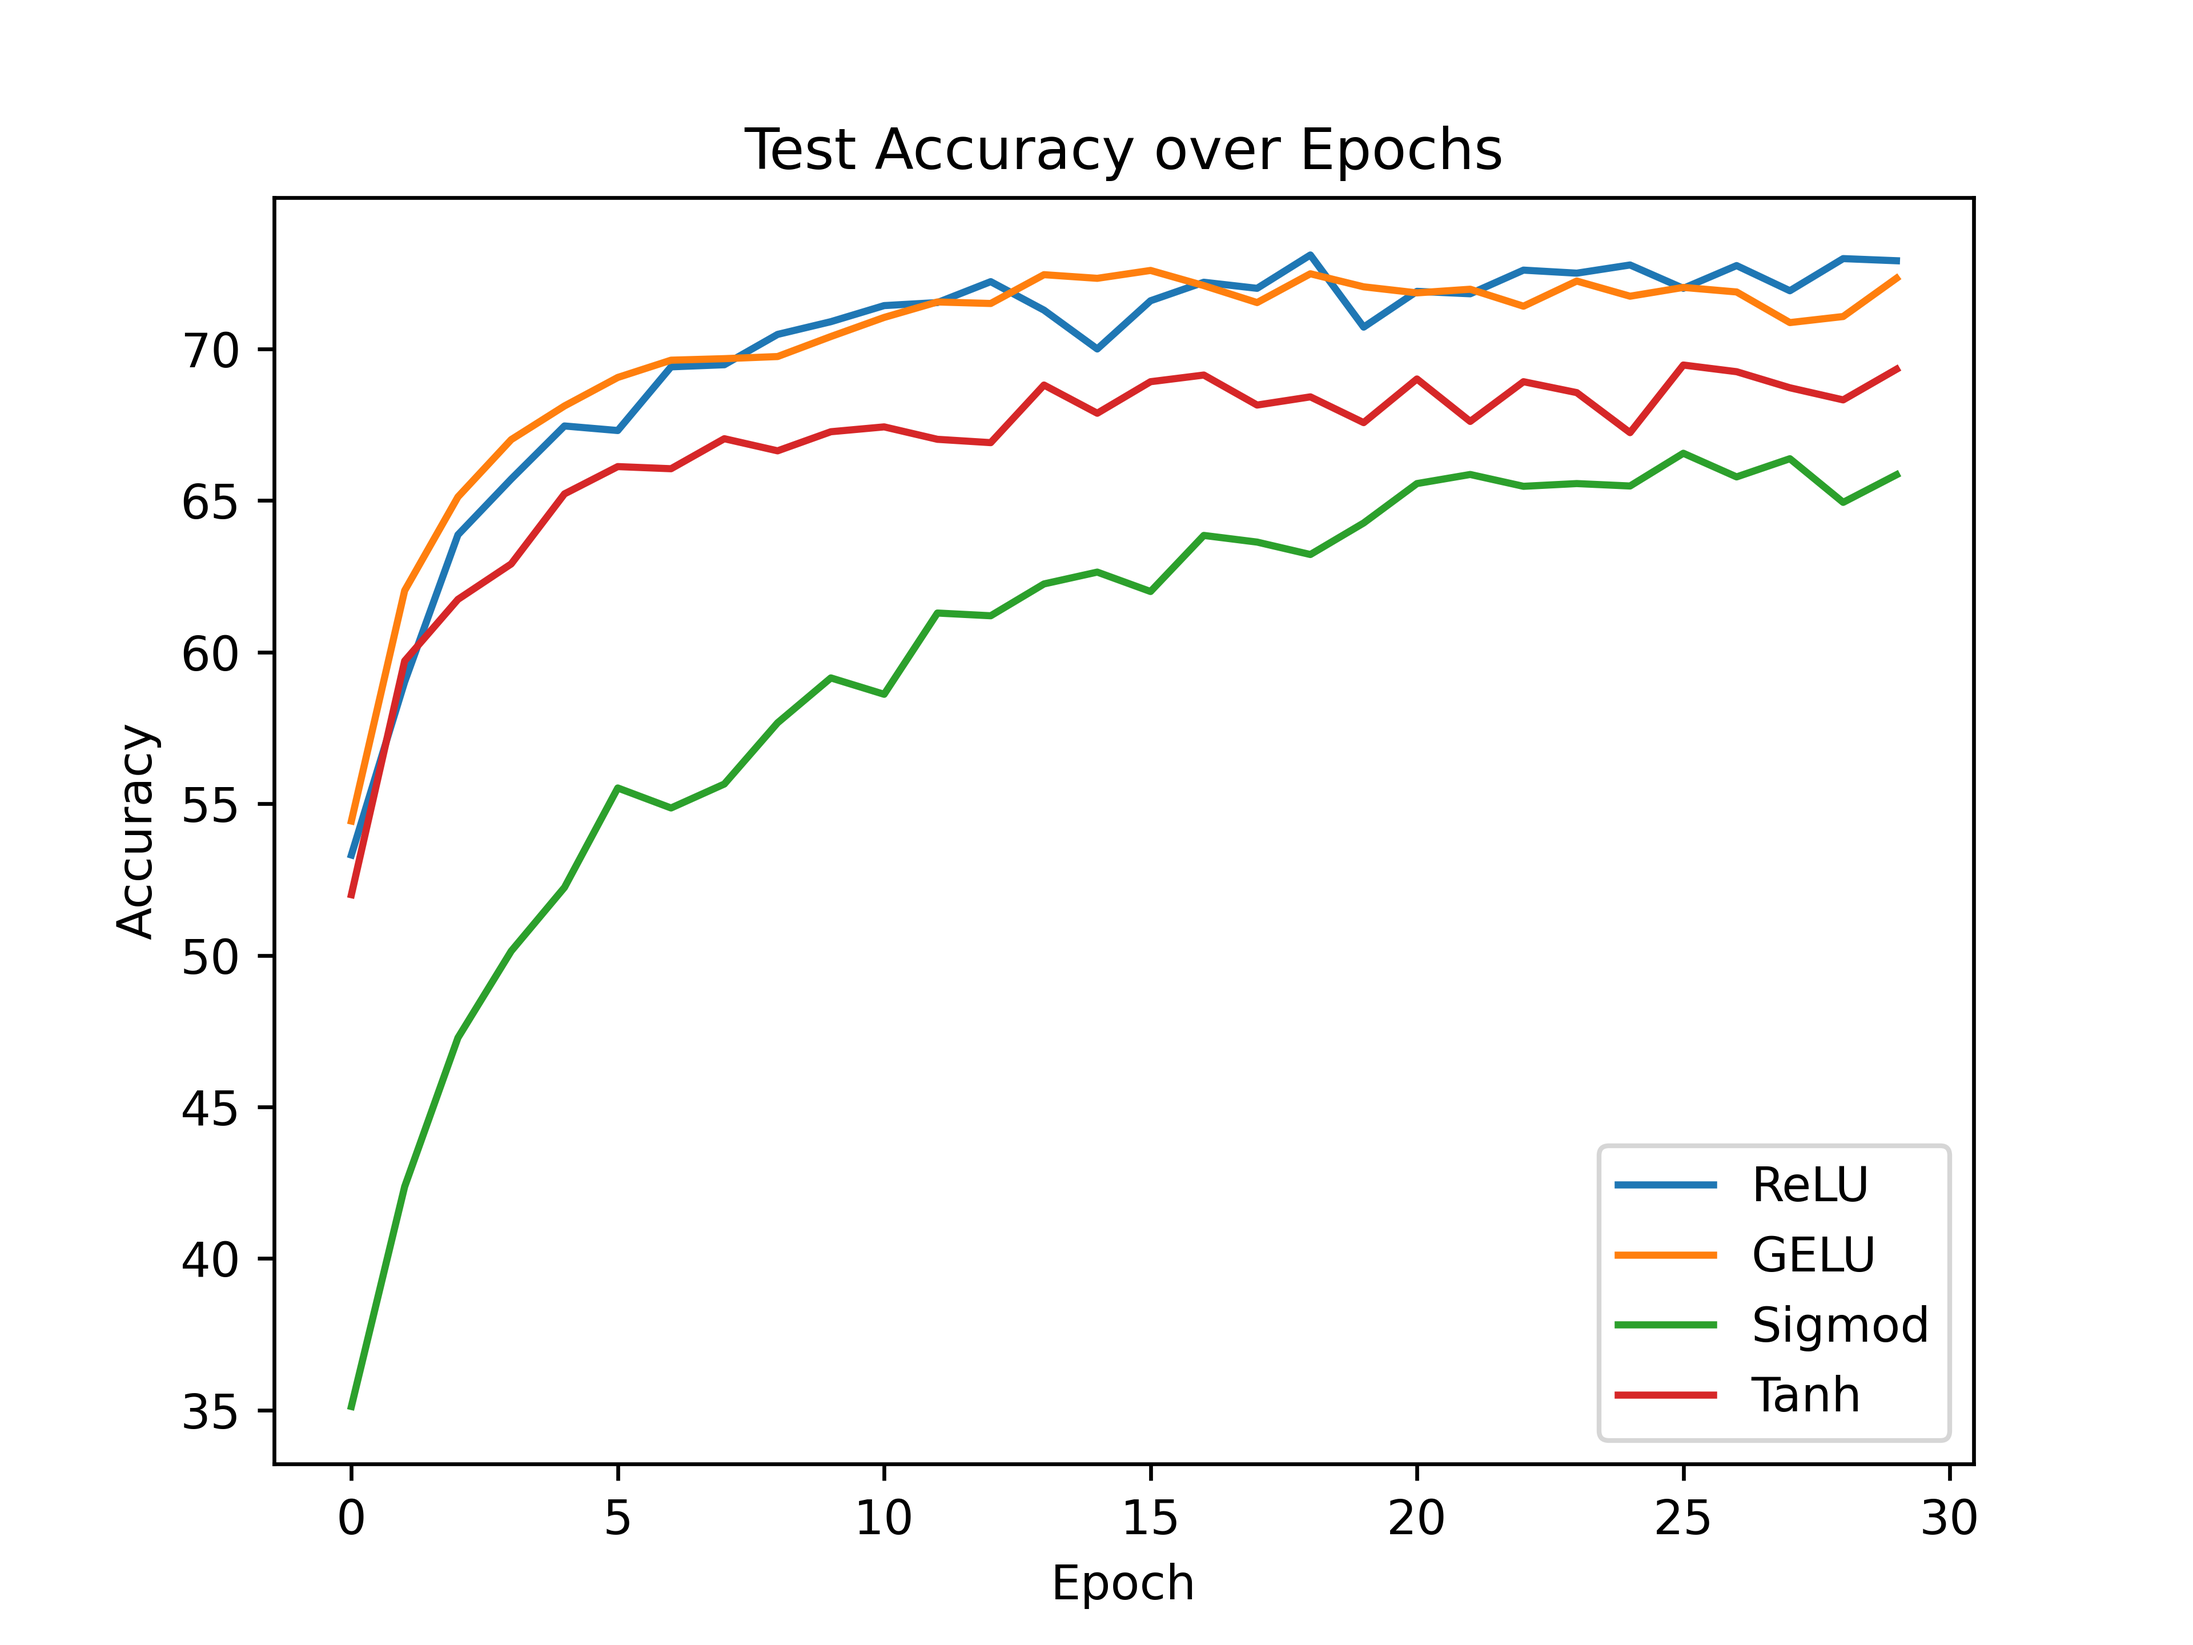
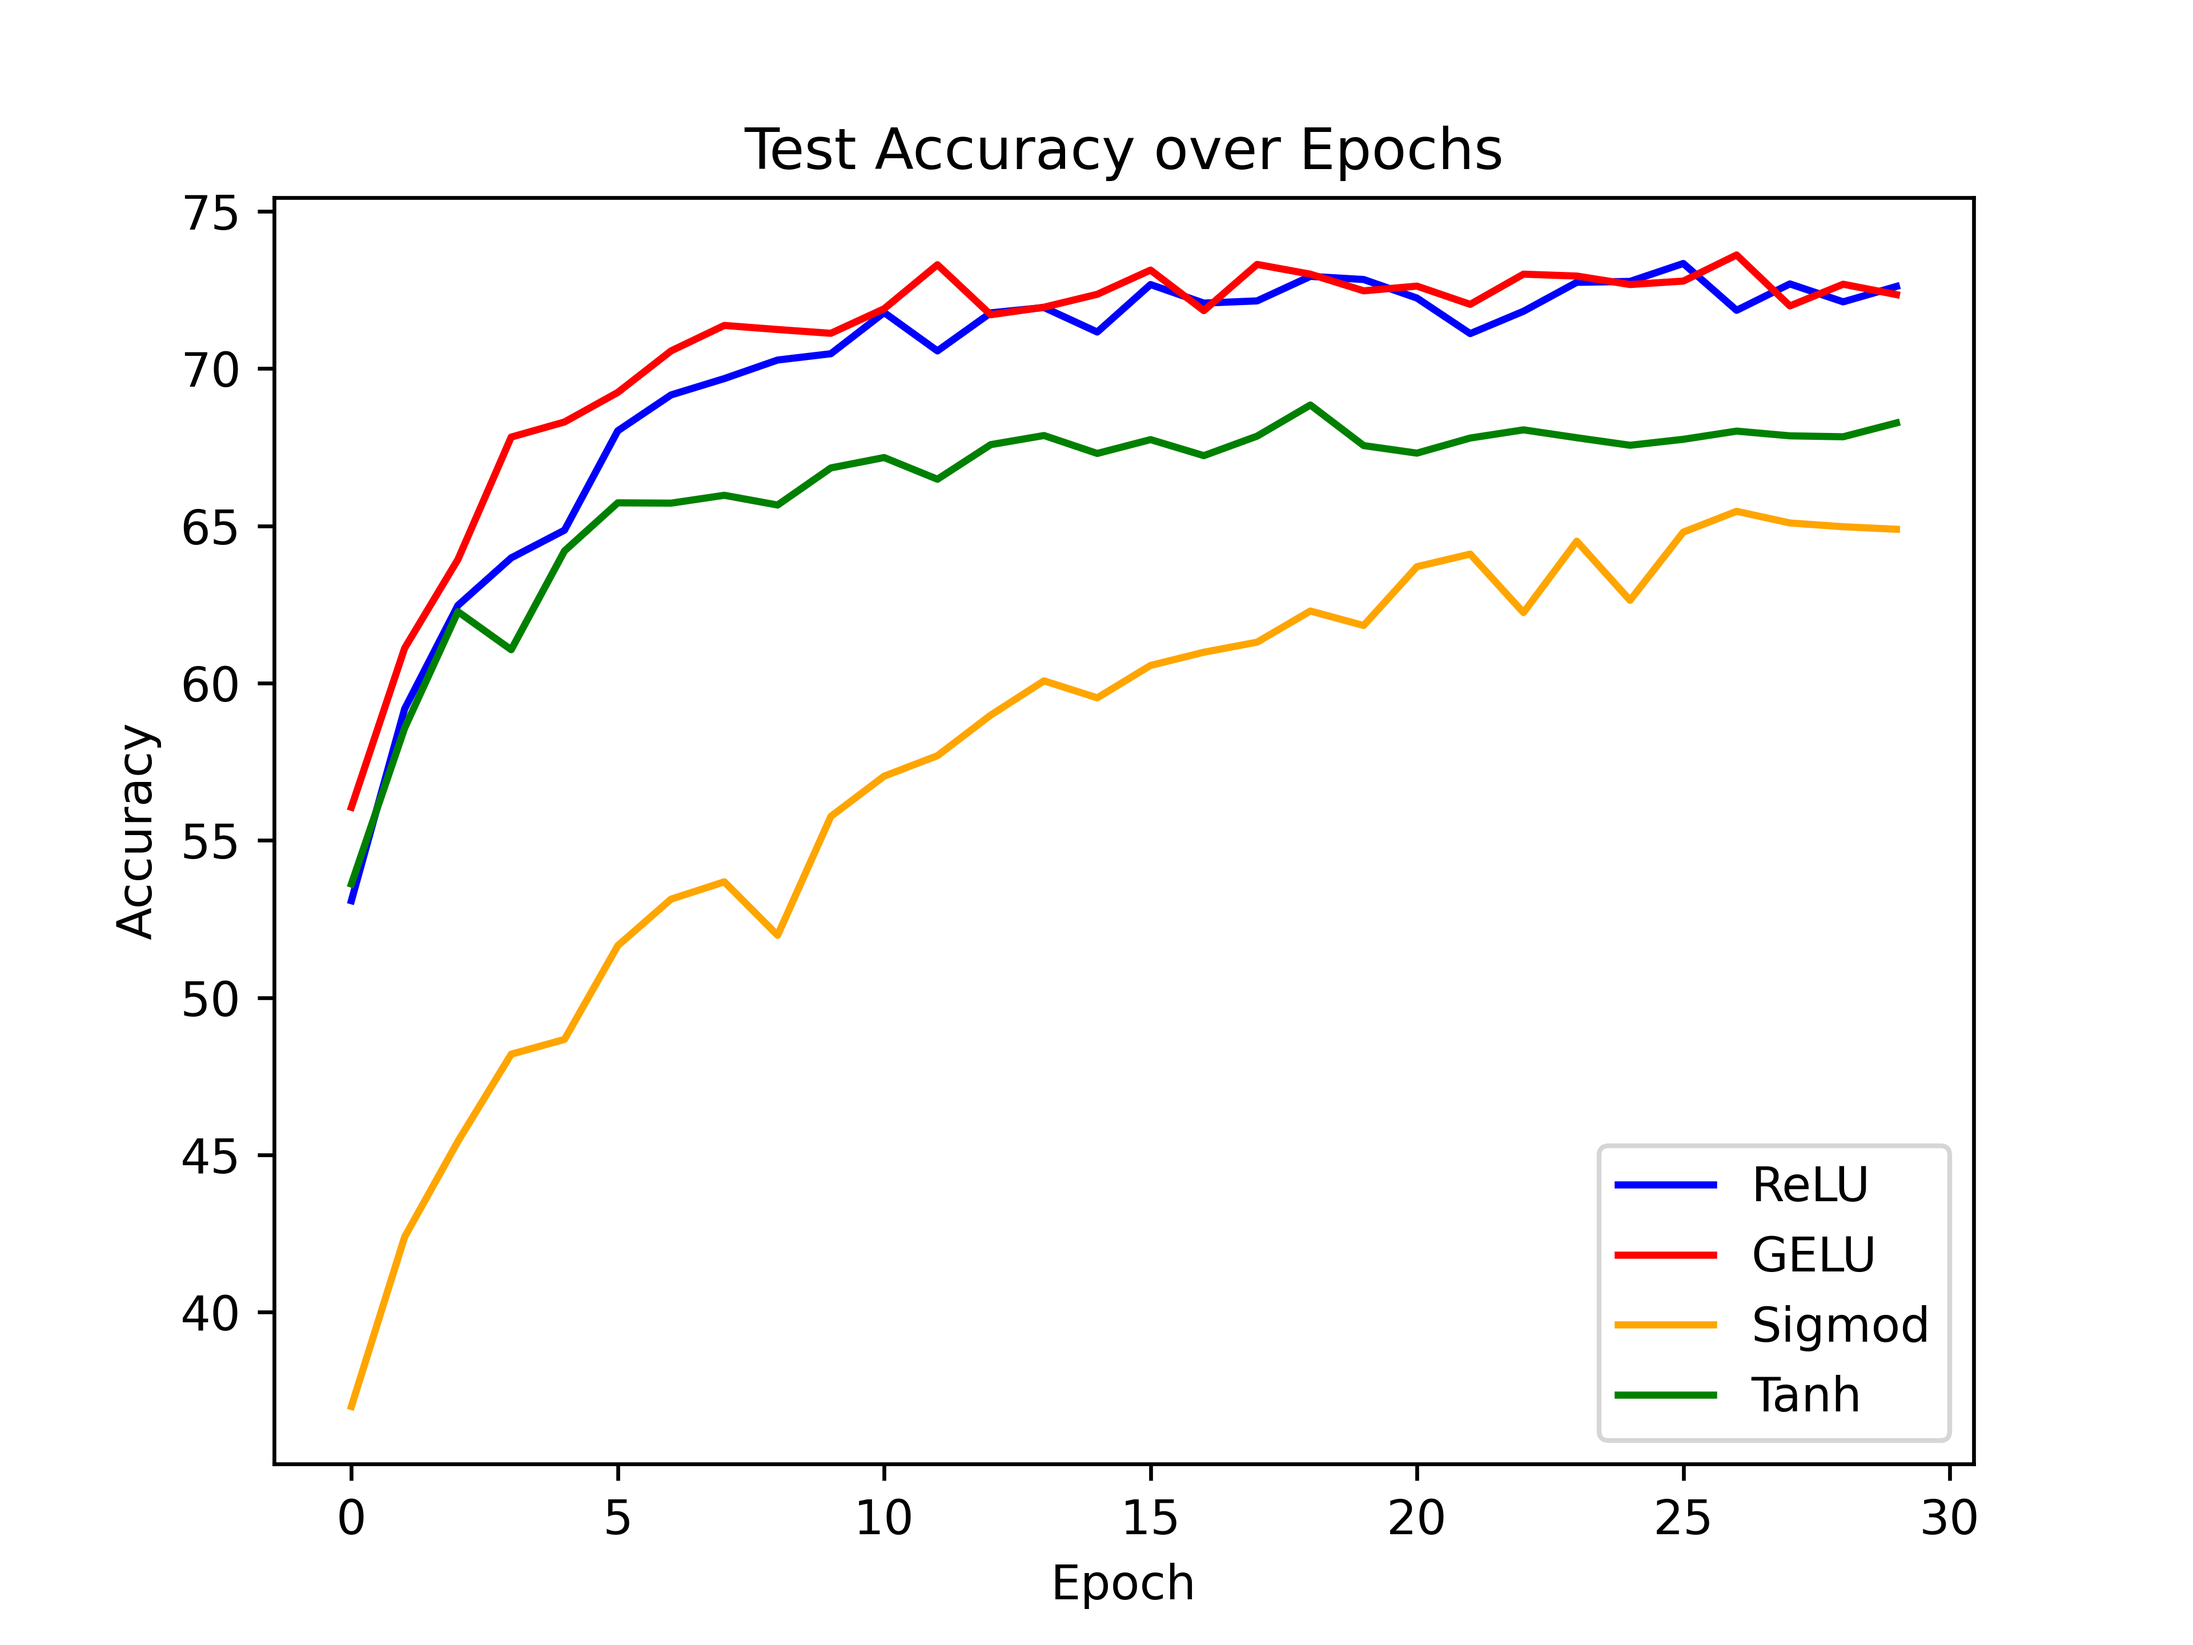
rerun

diff --git a/ConvNet.py b/ConvNet.py
@@ -141,13 +141,6 @@ class model(nn.Module):
         # fully connected 1
         self.fc1 = nn.Linear(120,84)
 
-        if self.normalization == 'bn':
-            self.norm4 = nn.BatchNorm1d(84)
-        elif self.normalization == 'ln':
-            self.norm4 = nn.LayerNorm(84)
-        elif self.normalization == 'gn':
-            self.norm4 = nn.GroupNorm(1, 84)
-
         # dropout
         if self.dropout:
             self.dropout = nn.Dropout(0.5)
@@ -193,11 +186,7 @@ class model(nn.Module):
         out = self.pool2(out)
         out = self.conv3(out)
         out = out.view(in_size,-1)
-        if self.normalization != 'none':
-            out = self.norm3(out)
         out = self.fc1(out)
-        if self.normalization != 'none':
-            out = self.norm4(out)
         out = self.activation_layer(out)
         if self.dropout:
             out = self.dropout(out)

diff --git a/PA1/test_kernel.py b/PA1/test_kernel.py
@@ -6,7 +6,7 @@ import matplotlib.pyplot as plt
 
 args = train.args
 train.total_epoch = 30
-args['dataset'] = 'cifar100'
+args['dataset'] = 'cifar10'
 
 # 经典 LeNet-5, kernel_size 为 5, kernel_num1 为 12, kernel_num2 为 32
 train.args = args

diff --git a/PA1/test_normalize.py b/PA1/test_normalize.py
@@ -6,7 +6,7 @@ import matplotlib.pyplot as plt
 
 args = train.args
 train.total_epoch = 30
-args['dataset'] = 'cifar100'
+args['dataset'] = 'cifar10'
 
 # 经典 LeNet-5，无归一化，batch_size = 64
 args['batch_size'] = 64

diff --git a/PA1/test_layers.py b/PA1/test_layers.py
@@ -5,8 +5,8 @@ import train
 import matplotlib.pyplot as plt
 
 args = train.args
-train.total_epoch = 50
-args['dataset'] = 'cifar100'
+train.total_epoch = 30
+args['dataset'] = 'cifar10'
 
 # 经典 LeNet-5
 train.args = args

diff --git a/PA3/test_attention.py b/PA3/test_attention.py
@@ -6,7 +6,7 @@ import matplotlib.pyplot as plt
 
 args = train.args
 train.total_epoch = 30
-args['dataset'] = 'cifar100'
+args['dataset'] = 'cifar10'
 
 # 经典 Lenet-5，无注意力机制
 train.args = args

diff --git a/PA1/test_activate.py b/PA1/test_activate.py
@@ -6,7 +6,7 @@ import matplotlib.pyplot as plt
 
 args = train.args
 train.total_epoch = 30
-args['dataset'] = 'cifar100'
+args['dataset'] = 'cifar10'
 
 # 经典 LeNet-5，使用 relu
 train.args = args

diff --git a/PA2/test_optimizer.py b/PA2/test_optimizer.py
@@ -6,7 +6,7 @@ import matplotlib.pyplot as plt
 
 args = train.args
 train.total_epoch = 30
-args['dataset'] = 'cifar100'
+args['dataset'] = 'cifar10'
 
 # Adam 优化器
 train.args = args
